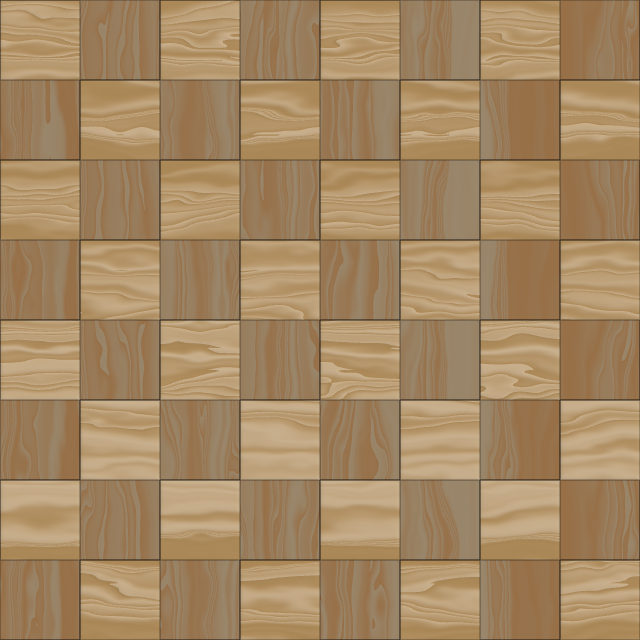
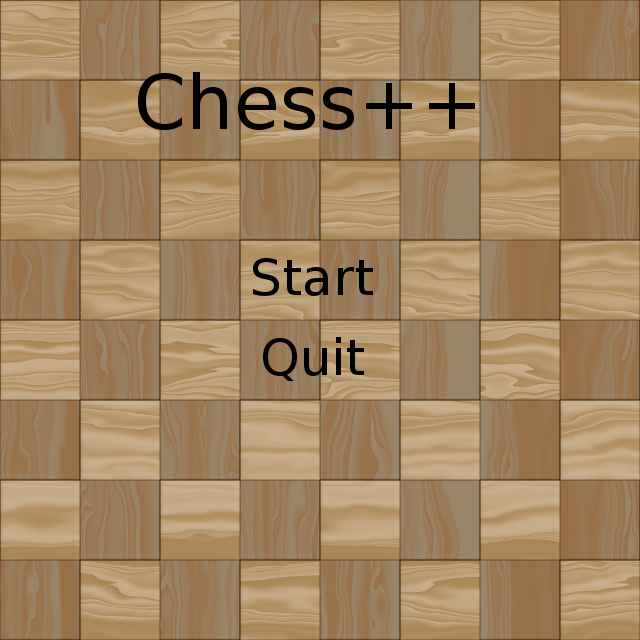
Created startmenustate

Changed region(s): [[0.2188, 0.0938, 0.75, 0.2188], [0.375, 0.4062, 0.5938, 0.4688], [0.4062, 0.5312, 0.5625, 0.5938]]

diff --git a/src/StartMenuState.cpp b/src/StartMenuState.cpp
@@ -18,8 +18,18 @@ namespace chesspp
 
     void StartMenuState::onLButtonPressed(int x, int y)
     {
-        std::clog << "State changing to ChessPlusPlus." << std::endl;
-        app.changeState<chesspp::ChessPlusPlusState>(std::ref(app), std::ref(display));
+        /** If clicked on Start button **/
+        if((x >= 250 && x <= 370) && (y >= 250 && y <= 300))
+        {
+            std::clog << "State changing to ChessPlusPlus." << std::endl;
+            app.changeState<chesspp::ChessPlusPlusState>(std::ref(app), std::ref(display));
+        }
+        /** If clicked on Exit button **/
+        if((x >= 260 && x <= 360) && (y >= 330 && y <= 380))
+        {
+            std::clog << "Exiting from StartMenuState." << std::endl;
+            app.setRunning(false);
+        }
     }
     
 }

diff --git a/src/ChessPlusPlusState.cpp b/src/ChessPlusPlusState.cpp
@@ -22,7 +22,6 @@ namespace chesspp
     , turn(players.find(board_config.metadata("first turn")))
     {
         std::clog << "Number of players: " << players.size() << std::endl;
-        destState = AppState::States::CURRENTSTATE;
         if(turn == players.end())
         {
             turn = players.begin();

diff --git a/src/ChessPlusPlusState.hpp b/src/ChessPlusPlusState.hpp
@@ -43,7 +43,6 @@ namespace chesspp
         virtual void onLButtonPressed(int x, int y) override;
         virtual void onLButtonReleased(int x, int y) override;
         
-        //virtual AppState::States stateChange() override;
     };
 }
 

diff --git a/src/Application.cpp b/src/Application.cpp
@@ -23,6 +23,11 @@ namespace chesspp
 
         return 0;
     }
+    
+    void Application::setRunning(bool running)
+    {
+        this->running = running;
+    }
 
     void Application::onEvent(sf::Event &e)
     {

diff --git a/src/Application.hpp b/src/Application.hpp
@@ -34,6 +34,7 @@ namespace chesspp
             //temp properly deletes the old state at the end of its scope
         }
         int execute();
+        void setRunning(bool running);
     };
 }
 
